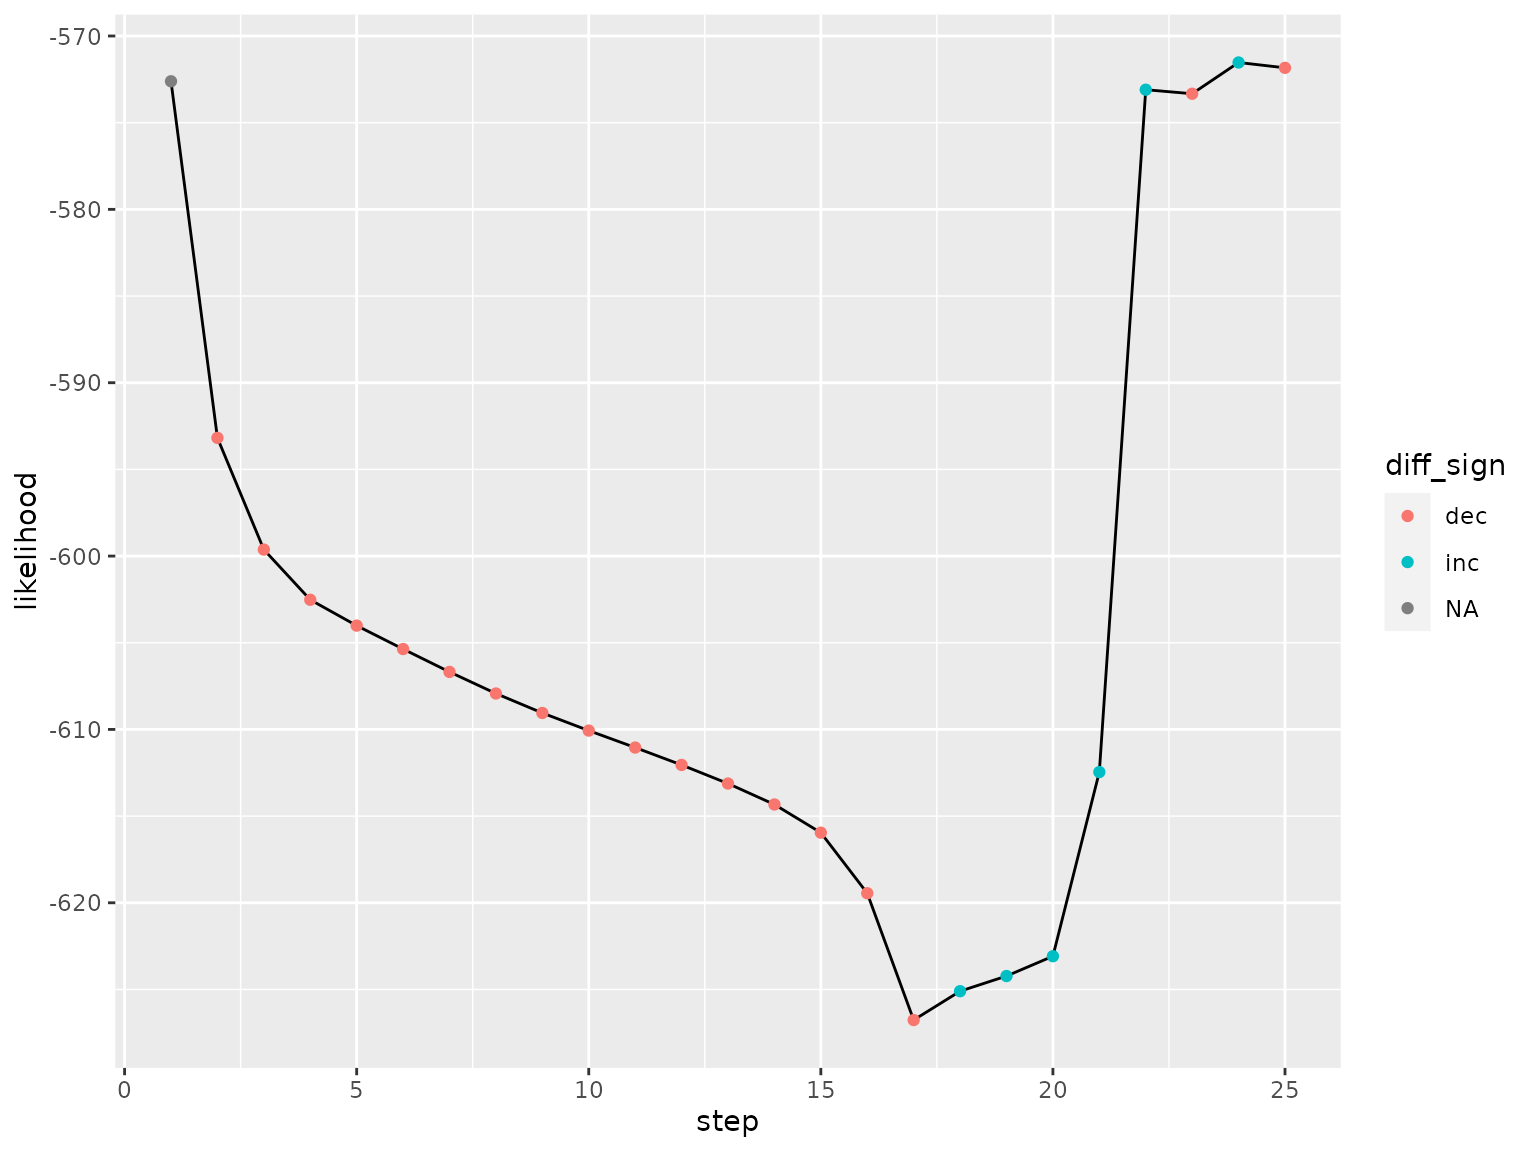
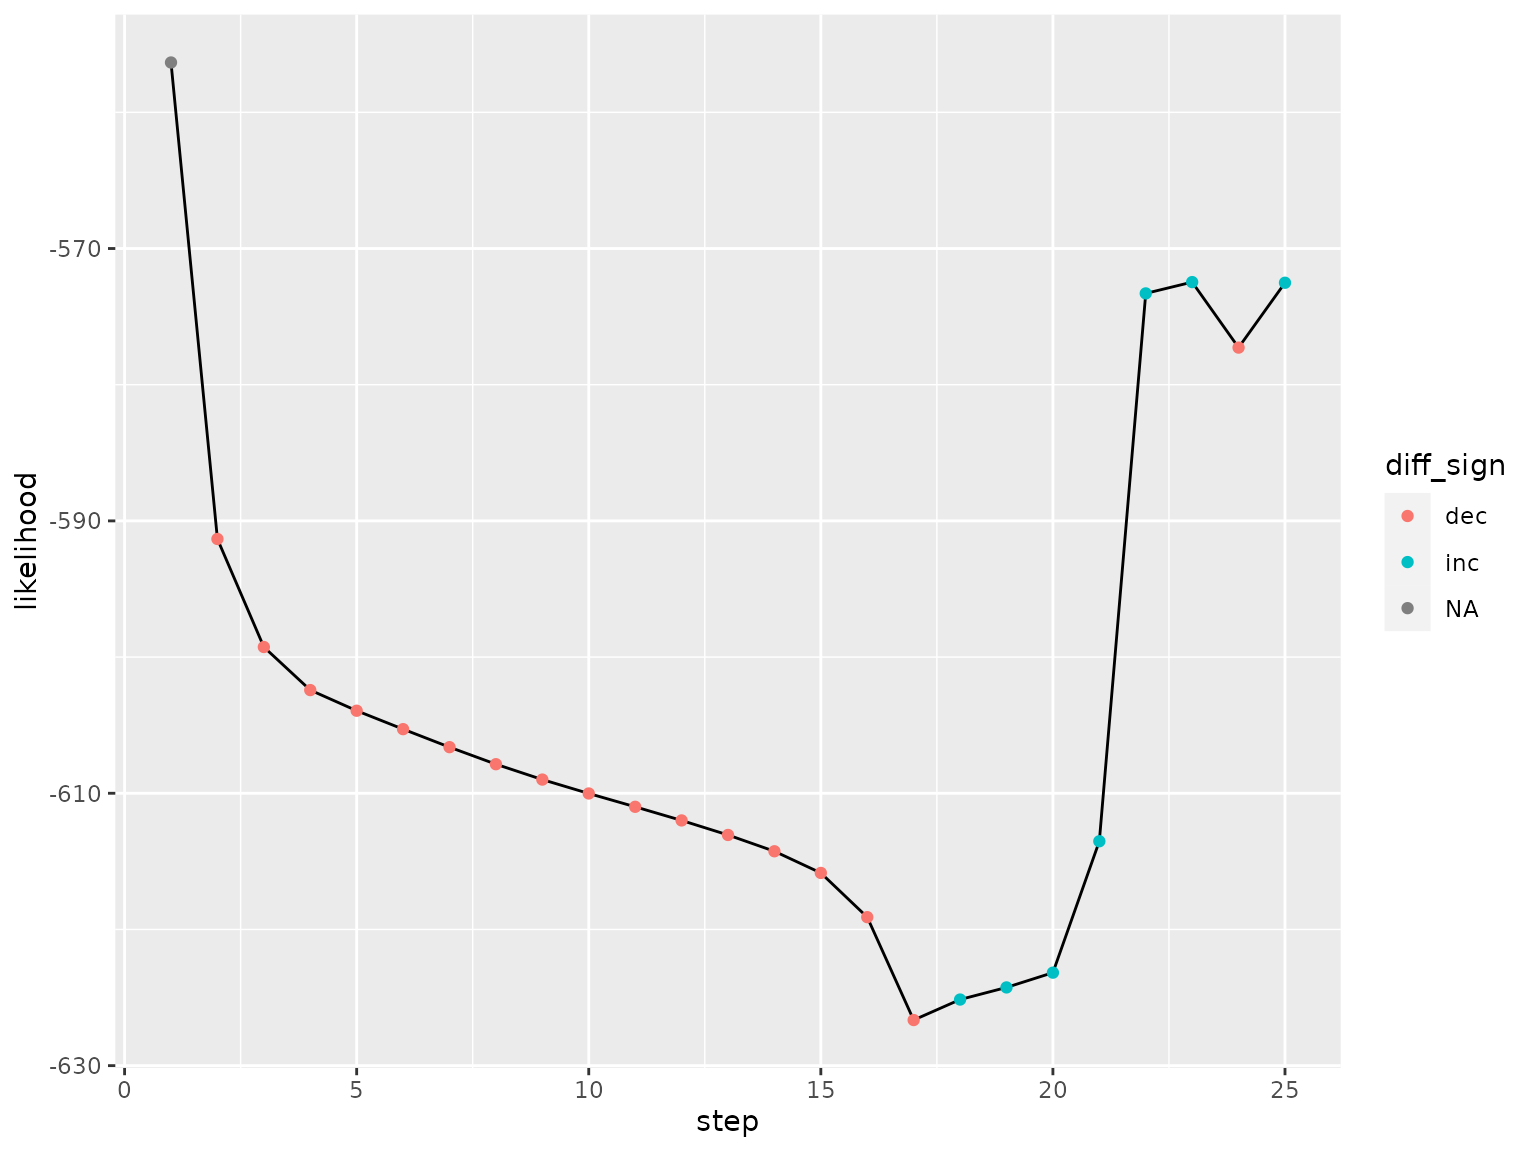
Deploying to gh-pages from @ ajmichaelucd/mic.sim@7e1ea2f75cb10299cd4c951e9d439bce62c5acd3 🚀

diff --git a/articles/two_comp_mgcv_demo.html b/articles/two_comp_mgcv_demo.html
@@ -194,15 +194,14 @@ gam.fit3(x = X, y = y, sp = L %*% lsp + lsp0, Eb = Eb, UrS = UrS</p>
 <span><span class="co">#&gt; starting iteration number 21</span></span>
 <span><span class="co">#&gt; starting iteration number 22</span></span>
 <span><span class="co">#&gt; starting iteration number 23</span></span>
-<span><span class="co">#&gt; Warning in EM_algorithm_mgcv(example_data, mu_formula = yi ~ s(t), pi_formula =</span></span>
-<span><span class="co">#&gt; c == : Log Likelihood decreased</span></span>
-<span><span class="co">#&gt; starting iteration number 24</span></span>
-<span><span class="co">#&gt; starting iteration number 25</span></span>
 <span><span class="co">#&gt; Warning in newton(lsp = lsp, X = G$X, y = G$y, Eb = G$Eb, UrS = G$UrS, L = G$L,</span></span>
 <span><span class="co">#&gt; : Fitting terminated with step failure - check results carefully</span></span>
-<span></span>
+<span><span class="co">#&gt; starting iteration number 24</span></span>
+<span><span class="co">#&gt; Warning in EM_algorithm_mgcv(example_data, mu_formula = yi ~ s(t), pi_formula =</span></span>
+<span><span class="co">#&gt; c == : Log Likelihood decreased</span></span>
+<span><span class="co">#&gt; starting iteration number 25</span></span>
 <span><span class="co">#&gt; Warning in newton(lsp = lsp, X = G$X, y = G$y, Eb = G$Eb, UrS = G$UrS, L = G$L,</span></span>
-<span><span class="co">#&gt; : Log Likelihood decreased</span></span></code></pre></div>
+<span><span class="co">#&gt; : Fitting terminated with step failure - check results carefully</span></span></code></pre></div>
 <p>And we plot the log likelihood of each step, the EM algorithm should
 be monotonically increasing but we see drops early, then also some
 later.</p>

diff --git a/reference/mic.sim-package.html b/reference/mic.sim-package.html
@@ -56,6 +56,7 @@
     <div class="section level2">
     <h2 id="see-also">See also<a class="anchor" aria-label="anchor" href="#see-also"></a></h2>
     <div class="dont-index"><p>Useful links:</p><ul><li><p><a href="https://github.com/ajmichaelucd/mic.sim" class="external-link">https://github.com/ajmichaelucd/mic.sim</a></p></li>
+<li><p><a href="https://ajmichaelucd.github.io/mic.sim/">https://ajmichaelucd.github.io/mic.sim/</a></p></li>
 <li><p>Report bugs at <a href="https://github.com/ajmichaelucd/mic.sim/issues" class="external-link">https://github.com/ajmichaelucd/mic.sim/issues</a></p></li>
 </ul></div>
     </div>

diff --git a/reference/EM_algorithm_mgcv.html b/reference/EM_algorithm_mgcv.html
@@ -69,7 +69,8 @@
 <span>  pi_link <span class="op">=</span> <span class="st">"logit"</span>,</span>
 <span>  verbose <span class="op">=</span> <span class="fl">3</span>,</span>
 <span>  model_coefficient_tolerance <span class="op">=</span> <span class="fl">1e-05</span>,</span>
-<span>  initial_weighting <span class="op">=</span> <span class="fl">8</span></span>
+<span>  initial_weighting <span class="op">=</span> <span class="fl">8</span>,</span>
+<span>  sd_initial <span class="op">=</span> <span class="fl">0.25</span></span>
 <span><span class="op">)</span></span></code></pre></div>
     </div>
 
